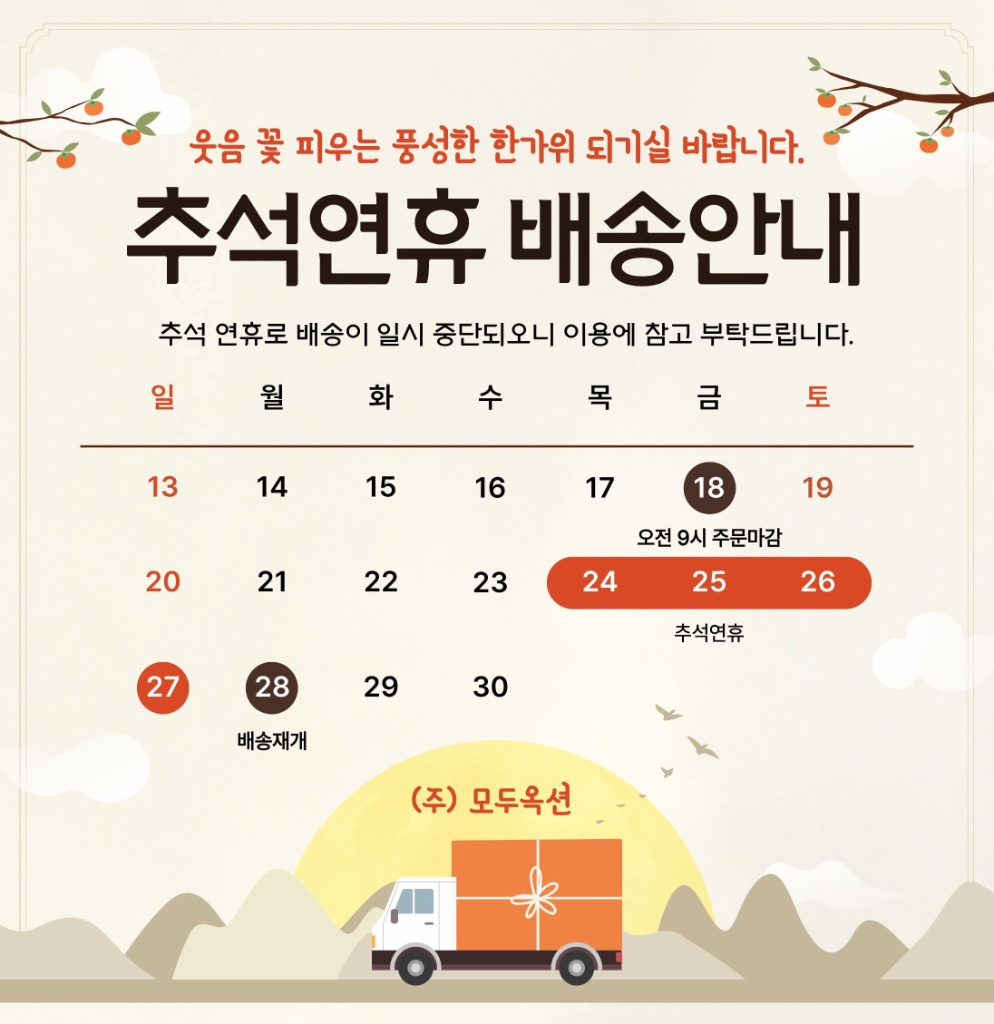
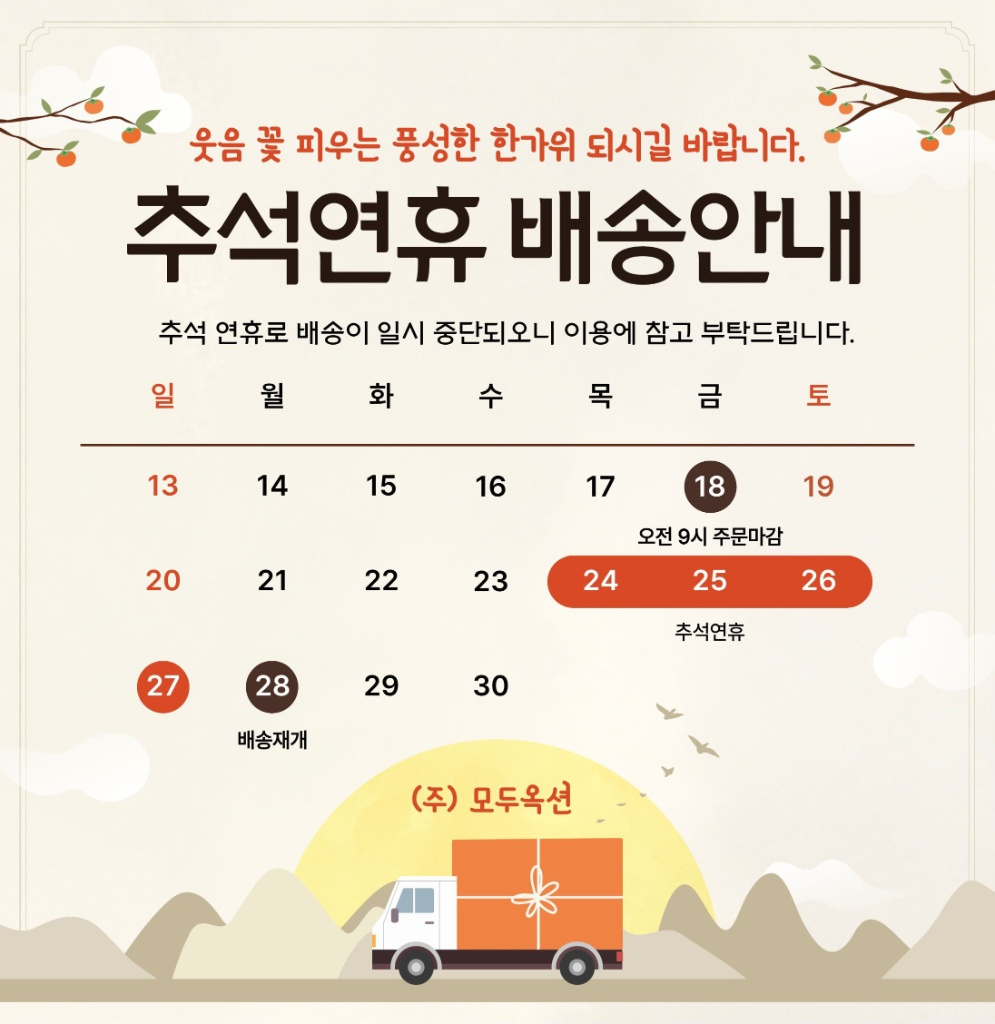
fix: 공지 이미지를 새 추석 배송안내로 교체 + 가이드 '저렴하게 사고'→'도매가로 구매' 수정 (캐시 s->t)

diff --git a/public/static/pages.js b/public/static/pages.js
@@ -62,7 +62,7 @@ async function pageHome() {
         <span class="font-extrabold text-gray-800">추석 연휴 배송 안내</span>
       </div>
       <p class="px-5 pt-1 pb-3 text-sm text-gray-500">추석 연휴로 배송이 일시 중단되오니 이용에 참고 부탁드립니다.</p>
-      <img src="/static/notice-chuseok-2026.png" alt="추석 연휴 배송 안내: 9월 18일 오전 9시 주문마감, 9월 24~26일 추석연휴 배송중단, 9월 28일 배송재개" class="w-full h-auto block" />
+      <img src="/static/notice-chuseok-2026.png?v=2" alt="추석 연휴 배송 안내: 9월 18일 오전 9시 주문마감, 9월 24~26일 추석연휴 배송중단, 9월 28일 배송재개" class="w-full h-auto block" />
       <div class="px-5 py-4 text-sm text-gray-600 leading-relaxed border-t border-gray-50">
         <div class="flex flex-wrap gap-x-6 gap-y-1">
           <div><i class="fas fa-clock text-brand-orange mr-1"></i> <b>9/18(금) 오전 9시</b> 주문 마감</div>
@@ -537,7 +537,7 @@ async function pageGuideAuction() {
 
     <div class="bg-orange-50 border border-orange-100 rounded-2xl p-4 mt-5 text-sm text-gray-600 leading-relaxed">
       <div class="font-bold text-brand-orange mb-1"><i class="fas fa-lightbulb"></i> 핵심 포인트</div>
-      낙찰되든 안 되든 <b>모두가 이익</b>! 낙찰되면 저렴하게 사고, 미낙찰돼도 보상 포인트로 돌려받아 다시 도전할 수 있어요.
+      낙찰되든 안 되든 <b>모두가 이익</b>! 낙찰되면 도매가로 구매, 미낙찰돼도 보상 포인트로 돌려받아 다시 도전할 수 있어요.
     </div>
 
     <a href="#/" class="block text-center w-full bg-brand-orange text-white font-bold py-3.5 rounded-xl hover:bg-orange-600 transition mt-5">

diff --git a/src/views/app.tsx b/src/views/app.tsx
@@ -66,15 +66,15 @@ export function renderApp(): string {
   <div id="app"></div>
   <div id="modal-root"></div>
   <div id="toast-root" class="fixed top-4 right-4 z-[100] flex flex-col gap-2"></div>
-  <script src="/static/api.js?v=20260820s"></script>
-  <script src="/static/i18n.js?v=20260820s"></script>
-  <script src="/static/i18n-dict.js?v=20260820s"></script>
-  <script src="/static/components.js?v=20260820s"></script>
-  <script src="/static/pages.js?v=20260820s"></script>
-  <script src="/static/mypage.js?v=20260820s"></script>
-  <script src="/static/network.js?v=20260820s"></script>
-  <script src="/static/admin.js?v=20260820s"></script>
-  <script src="/static/app.js?v=20260820s"></script>
+  <script src="/static/api.js?v=20260820t"></script>
+  <script src="/static/i18n.js?v=20260820t"></script>
+  <script src="/static/i18n-dict.js?v=20260820t"></script>
+  <script src="/static/components.js?v=20260820t"></script>
+  <script src="/static/pages.js?v=20260820t"></script>
+  <script src="/static/mypage.js?v=20260820t"></script>
+  <script src="/static/network.js?v=20260820t"></script>
+  <script src="/static/admin.js?v=20260820t"></script>
+  <script src="/static/app.js?v=20260820t"></script>
   <script>if (typeof I18N !== 'undefined') I18N.init()</script>
 </body>
 </html>`

diff --git a/api/index.js b/api/index.js
@@ -10750,15 +10750,15 @@ function renderApp() {
   <div id="app"></div>
   <div id="modal-root"></div>
   <div id="toast-root" class="fixed top-4 right-4 z-[100] flex flex-col gap-2"></div>
-  <script src="/static/api.js?v=20260820s"></script>
-  <script src="/static/i18n.js?v=20260820s"></script>
-  <script src="/static/i18n-dict.js?v=20260820s"></script>
-  <script src="/static/components.js?v=20260820s"></script>
-  <script src="/static/pages.js?v=20260820s"></script>
-  <script src="/static/mypage.js?v=20260820s"></script>
-  <script src="/static/network.js?v=20260820s"></script>
-  <script src="/static/admin.js?v=20260820s"></script>
-  <script src="/static/app.js?v=20260820s"></script>
+  <script src="/static/api.js?v=20260820t"></script>
+  <script src="/static/i18n.js?v=20260820t"></script>
+  <script src="/static/i18n-dict.js?v=20260820t"></script>
+  <script src="/static/components.js?v=20260820t"></script>
+  <script src="/static/pages.js?v=20260820t"></script>
+  <script src="/static/mypage.js?v=20260820t"></script>
+  <script src="/static/network.js?v=20260820t"></script>
+  <script src="/static/admin.js?v=20260820t"></script>
+  <script src="/static/app.js?v=20260820t"></script>
   <script>if (typeof I18N !== 'undefined') I18N.init()</script>
 </body>
 </html>`;
